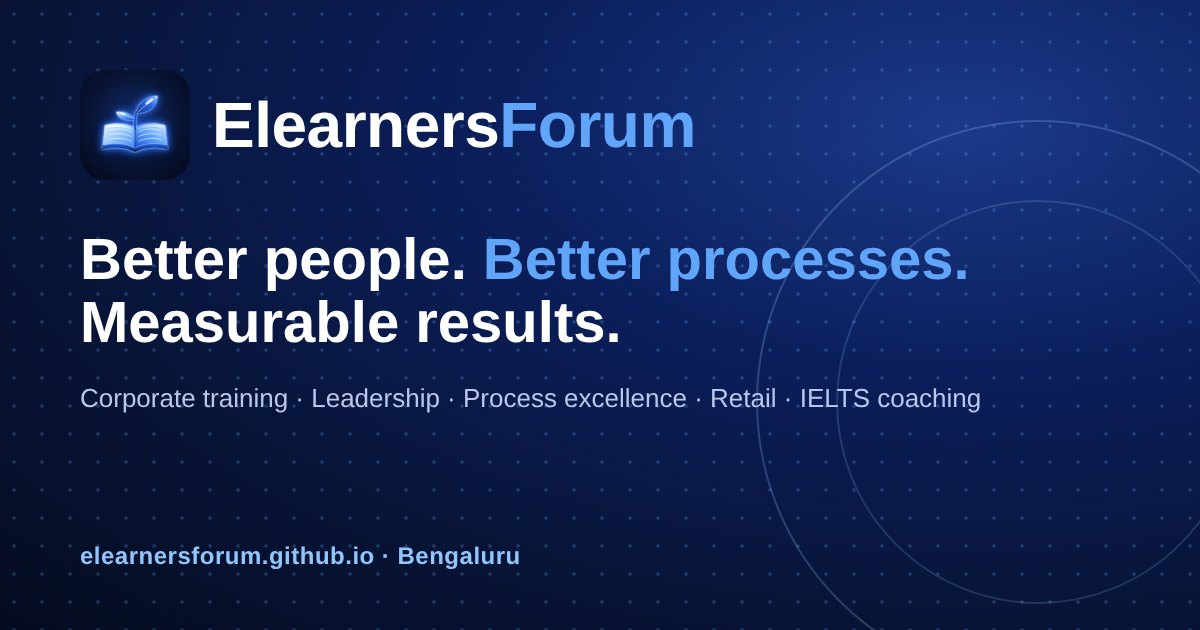
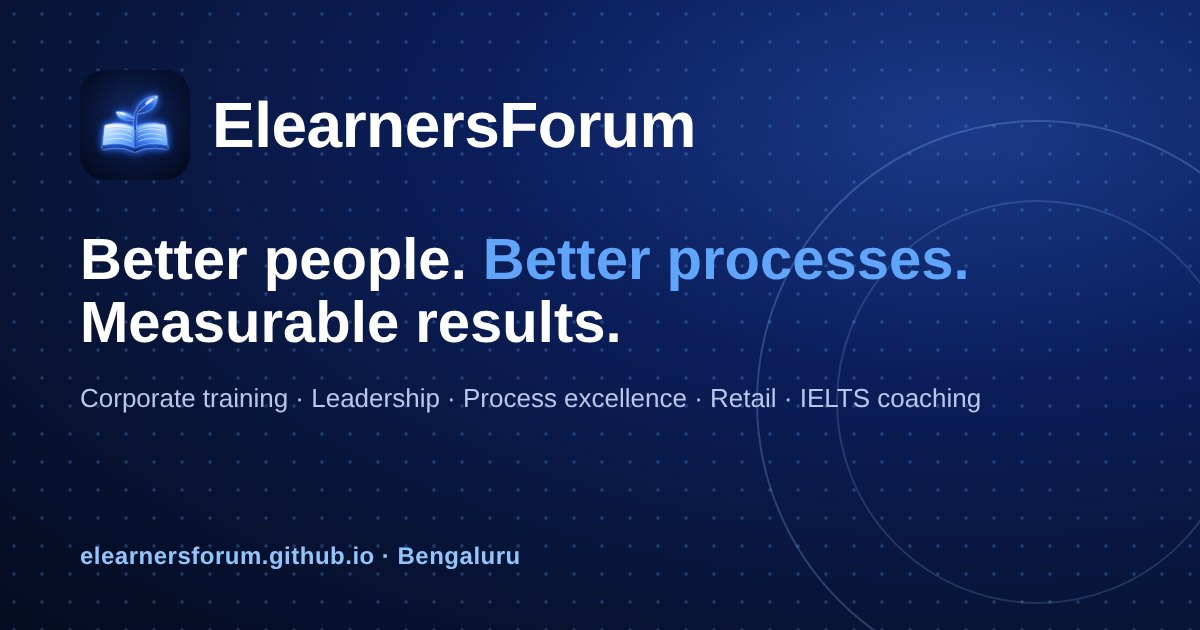
ElearnersForum name fully white (site and preview image)
Claude-Session: https://claude.ai/code/session_01HdBuhoZhMDcQ4eTEbHAynN

Changed region(s): [[0.4008, 0.1508, 0.5858, 0.2413]]

diff --git a/index.html b/index.html
@@ -138,7 +138,7 @@ header.site {
 .nav { display: flex; align-items: center; justify-content: space-between; gap: 16px; padding-block: 12px; }
 .brand { display: flex; align-items: center; gap: 10px; text-decoration: none; font-family: var(--font-display); font-stretch: condensed; font-weight: 700; font-size: 25px; }
 .brand-mark { width: 40px; height: 40px; flex: none; display: block; }
-.brand span b { color: var(--sky); font-weight: 700; }
+.brand span b { color: inherit; font-weight: 700; }
 .nav-links { display: flex; gap: 6px; align-items: center; font-size: 15.5px; }
 .nav-links a { text-decoration: none; padding: 8px 12px; border-radius: 999px; color: var(--night-muted); }
 .nav-links a:hover { color: var(--night-ink); background: rgba(96, 165, 250, 0.12); }
